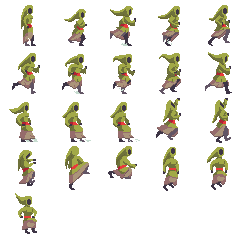
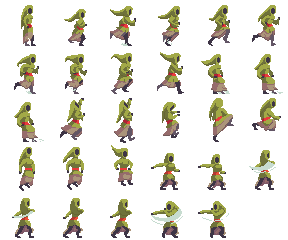
Stashing changes.

diff --git a/Scripts/Player/PlayerCharacter.cs b/Scripts/Player/PlayerCharacter.cs
@@ -31,6 +31,12 @@ public partial class PlayerCharacter : CharacterBody2D
   [Export]
   public float Gravity = 3000.0f;
 
+  [Export]
+  public float Momentum = 0.0f;
+
+  [Export]
+  public bool ProjectileThrown = false;
+
   /// <summary>
   /// The effect of friction on the player.
   /// </summary>
@@ -42,7 +48,8 @@ public partial class PlayerCharacter : CharacterBody2D
   /// </summary>
   public InputQueue InputQueue = new(new Dictionary<PlayerInput, double>()
   {
-    { PlayerInput.Jump, 0.1 }
+    { PlayerInput.Jump, 0.1 },
+    { PlayerInput.Attack, 0.2 },
   });
 
   /// <summary>
@@ -56,8 +63,9 @@ public partial class PlayerCharacter : CharacterBody2D
 
   private CollisionShape2D _hitBox;
 
-  // public FlippableNode<Node2D> MantleCornerPoint;
   public Node2D MantleCornerPoint;
+
+  public Node2D ProjectileOriginPoint;
 
   public bool IsFlipped => _isFlipped;
 
@@ -95,13 +103,7 @@ public partial class PlayerCharacter : CharacterBody2D
   /// <param name="projectile">The projectile to fire.</param>
   public void HandleFireProjectile(PackedScene projectile)
   {
-    // AimArm.Visible = true;
-    // ArmSprite.Visible = false;
-    // AimArm.StartAimStance();
-
-    // Vector2 projectileOrigin = AimArm.GetProjectileOrigin();
-
-    Vector2 projectileOrigin = Position;
+    Vector2 projectileOrigin = ProjectileOriginPoint.Position + Position;
 
     EmitSignal(
       SignalName.FireProjectile,
@@ -109,17 +111,6 @@ public partial class PlayerCharacter : CharacterBody2D
       projectileOrigin,
       _isFlipped
     );
-
-    // EmitSignal(
-    //   SignalName.FireProjectile,
-    //   projectile,
-    //   projectileOrigin,
-    //   projectileOrigin + (
-    //     _isFlipped
-    //       ? new Vector2(-1, 0)
-    //       : new Vector2(+1, 0)
-    //     )
-    // );
   }
 
   /// <summary>
@@ -146,16 +137,6 @@ public partial class PlayerCharacter : CharacterBody2D
     return ((CapsuleShape2D)_hitBox.Shape).Radius / 2;
   }
 
-  // /// <summary>
-  // /// This is called when the aim arm has "timed out". In this scenario, it means that the player is
-  // /// no longer aiming for any given reason. This should be largely a visual change.
-  // /// </summary>
-  // public void OnAimArmTimerTimeout()
-  // {
-  //   AimArm.Visible = false;
-  //   ArmSprite.Visible = true;
-  // }
-
   /// <inheritdoc/>
   public override void _Ready()
   {
@@ -170,9 +151,7 @@ public partial class PlayerCharacter : CharacterBody2D
     FeetRay = GetNode<RayCast2D>("Sprites/FeetRay");
 
     MantleCornerPoint = GetNode<Node2D>("Sprites/MantleCornerPoint");
-
-    // AimArm = GetNode<AimArm>("Sprites/AimArm");
-    // AimArm.OnAimTimerTimeout += OnAimArmTimerTimeout;
+    ProjectileOriginPoint = GetNode<Node2D>("Sprites/ProjectileOriginPoint");
 
     _hitBox = GetNode<CollisionShape2D>("Hitbox");
   }

diff --git a/Scripts/Player/States/AbstractPlayerState.cs b/Scripts/Player/States/AbstractPlayerState.cs
@@ -92,6 +92,16 @@ public abstract partial class AbstractPlayerState : AbstractState
     return direction;
   }
 
+  virtual protected Vector2 GetMomentum(Vector2 direction, double delta)
+  {
+    Vector2 momentum = new(_player.Momentum, 0);
+    momentum *= _player.IsFlipped ? -1 : 1;
+    direction += momentum;
+
+    _player.Momentum = 0;
+    return direction;
+  }
+
   /// <summary>
   /// Calculates the direction that the player should head in, given all of their inputs and
   /// external physics forces.
@@ -117,6 +127,8 @@ public abstract partial class AbstractPlayerState : AbstractState
       direction = GetJumping(direction, delta);
     }
 
+    direction = GetMomentum(direction, delta);
+
     return direction;
   }
 
@@ -126,11 +138,8 @@ public abstract partial class AbstractPlayerState : AbstractState
   /// </summary>
   protected void _handleFireProjectile()
   {
-    if (Capabilities.CanAttack && Input.IsActionJustPressed("fire_projectile"))
-    {
-      PackedScene projectile = GD.Load<PackedScene>("res://Scenes/Projectiles/Fireball.tscn");
-      _player.HandleFireProjectile(projectile);
-    }
+    PackedScene projectile = GD.Load<PackedScene>("res://Scenes/Projectiles/Fireball.tscn");
+    _player.HandleFireProjectile(projectile);
   }
 
   /// <summary>
@@ -200,10 +209,10 @@ public abstract partial class AbstractPlayerState : AbstractState
     {
       _player.HandleFlip(_shouldFlip());
     }
-    if (Capabilities.CanAttack)
-    {
-      _handleFireProjectile();
-    }
+    // if (Capabilities.CanAttack)
+    // {
+    //   _handleFireProjectile();
+    // }
 
     Vector2 inputDir = CalculateDirection(delta);
     _player.Velocity = inputDir;

diff --git a/Scripts/Player/States/ThrowingState.cs b/Scripts/Player/States/ThrowingState.cs
@@ -1,0 +1,56 @@
+using Centari.Player;
+using Centari.Player.States;
+using Centari.State;
+using Godot;
+
+public partial class ThrowingState : AbstractPlayerState
+{
+  protected override StateCapabilities Capabilities => new()
+  {
+    GravityAffected = true,
+  };
+
+  public void OnAnimationFinished(StringName animationName)
+  {
+    if (_inputQueue.Dequeue(PlayerInput.Attack))
+    {
+      if (animationName == "Throw1")
+      {
+        _animationPlayer.Play("Throw2");
+      }
+      else if (animationName == "Throw2")
+      {
+        _animationPlayer.Play("Throw1");
+      }
+    }
+    else
+    {
+      _stateMachine.TransitionState("IdleState");
+    }
+  }
+
+  public override void Transition(
+    StateMachine stateMachine,
+    AnimationPlayer animationPlayer,
+    Node owner,
+    string previousState
+  )
+  {
+    base.Transition(stateMachine, animationPlayer, owner, previousState);
+
+    animationPlayer.AnimationFinished += OnAnimationFinished;
+
+    _animationPlayer.Play("Throw1");
+  }
+
+  public override void Process(double delta)
+  {
+    base.Process(delta);
+
+    if (_player.ProjectileThrown)
+    {
+      _handleFireProjectile();
+      _player.ProjectileThrown = false;
+    }
+  }
+}

diff --git a/Scripts/Player/InputQueue.cs b/Scripts/Player/InputQueue.cs
@@ -22,7 +22,9 @@ public enum PlayerInput
   /// <summary>
   /// The player intends to jump.
   /// </summary>
-  Jump
+  Jump,
+
+  Attack
 }
 
 /// <summary>
@@ -144,6 +146,7 @@ public class InputQueue
       PlayerInput.Jump => Input.IsActionPressed("jump"),
       PlayerInput.MoveLeft => Input.IsActionPressed("move_left"),
       PlayerInput.MoveRight => Input.IsActionPressed("move_right"),
+      PlayerInput.Attack => Input.IsActionPressed("fire_projectile"),
       _ => false
     };
   }
@@ -160,6 +163,7 @@ public class InputQueue
       PlayerInput.Jump => Input.IsActionJustPressed("jump"),
       PlayerInput.MoveLeft => Input.IsActionJustPressed("move_left"),
       PlayerInput.MoveRight => Input.IsActionJustPressed("move_right"),
+      PlayerInput.Attack => Input.IsActionJustPressed("fire_projectile"),
       _ => false
     };
   }

diff --git a/Scripts/Player/States/IdleState.cs b/Scripts/Player/States/IdleState.cs
@@ -52,8 +52,13 @@ public partial class IdleState : AbstractPlayerState
     bool pressJump = _inputQueue.Peek(PlayerInput.Jump);
     bool pressLeft = _inputQueue.Peek(PlayerInput.MoveLeft);
     bool pressRight = _inputQueue.Peek(PlayerInput.MoveRight);
+    bool pressAttack = _inputQueue.Dequeue(PlayerInput.Attack);
 
-    if (pressJump)
+    if (pressAttack)
+    {
+      _stateMachine.TransitionState("ThrowingState");
+    }
+    else if (pressJump)
     {
       _stateMachine.TransitionState("JumpingState");
     }
